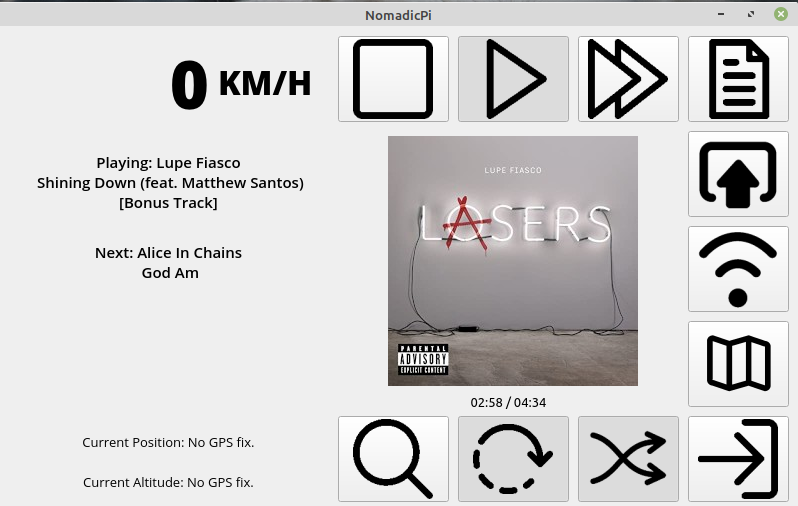
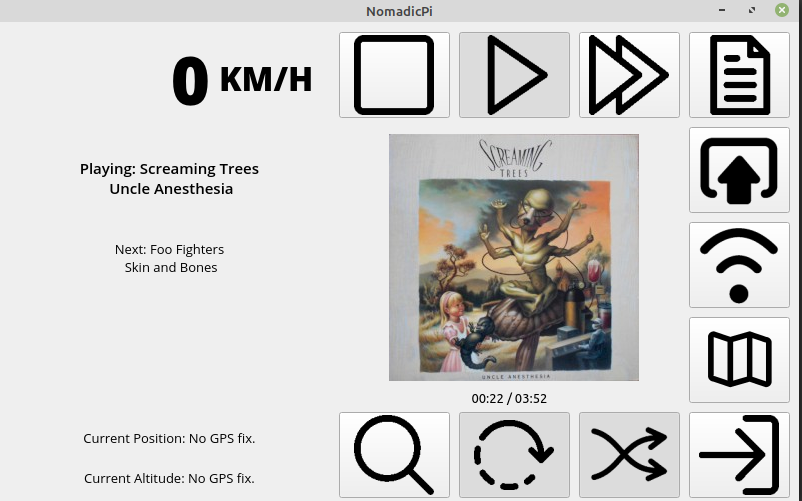
Added screenshot to the README

diff --git a/src/app.py b/src/app.py
@@ -76,8 +76,6 @@ class mainWindow(QtWidgets.QMainWindow):
         Update the interface with any time sensitive MPD info i.e play time etc 
         """                    
         self.user_actions.database_update_status(self.mpd_status)
-        
-        print(self.mpd_status)
 
         if self.mpd_status.get('state', '') == 'play':
             song_data = self.mpd.currently_playing()
@@ -100,7 +98,6 @@ class mainWindow(QtWidgets.QMainWindow):
                         next_up = self.mpd.playlist_info(next_song)
                         
                         if len(next_up) == 1:
-                            #print(next_up)
                             next_song = next_up[0]
                             song_info = 'Next: ' + next_song.get('artist', 'Unknown') + '\n ' + next_song.get('title', 'Unknown');
                             self.ui.MPDNextPlaying.setText(song_info)                            

diff --git a/README.md b/README.md
@@ -6,7 +6,10 @@ The first iteration of the car computer while it has proven itself over 100,000k
 
 So the first aim with this rewrite will be extensibility so it can be modified to interface with the multitude of bluetooth car accessories. The second goal will aim to ease of distribution and use for others. So this time around looking for a simplified .deb or similar installation workflow.
 
-With th 
+### Screenshots
+
+![Playing Music](/screenshots/1.png?raw=true "Playing music with no GPS fix")
+
 ### Licence
 
 Copyright (C) 2020 [Anthony Mills](http://www.anthony-mills.com)
